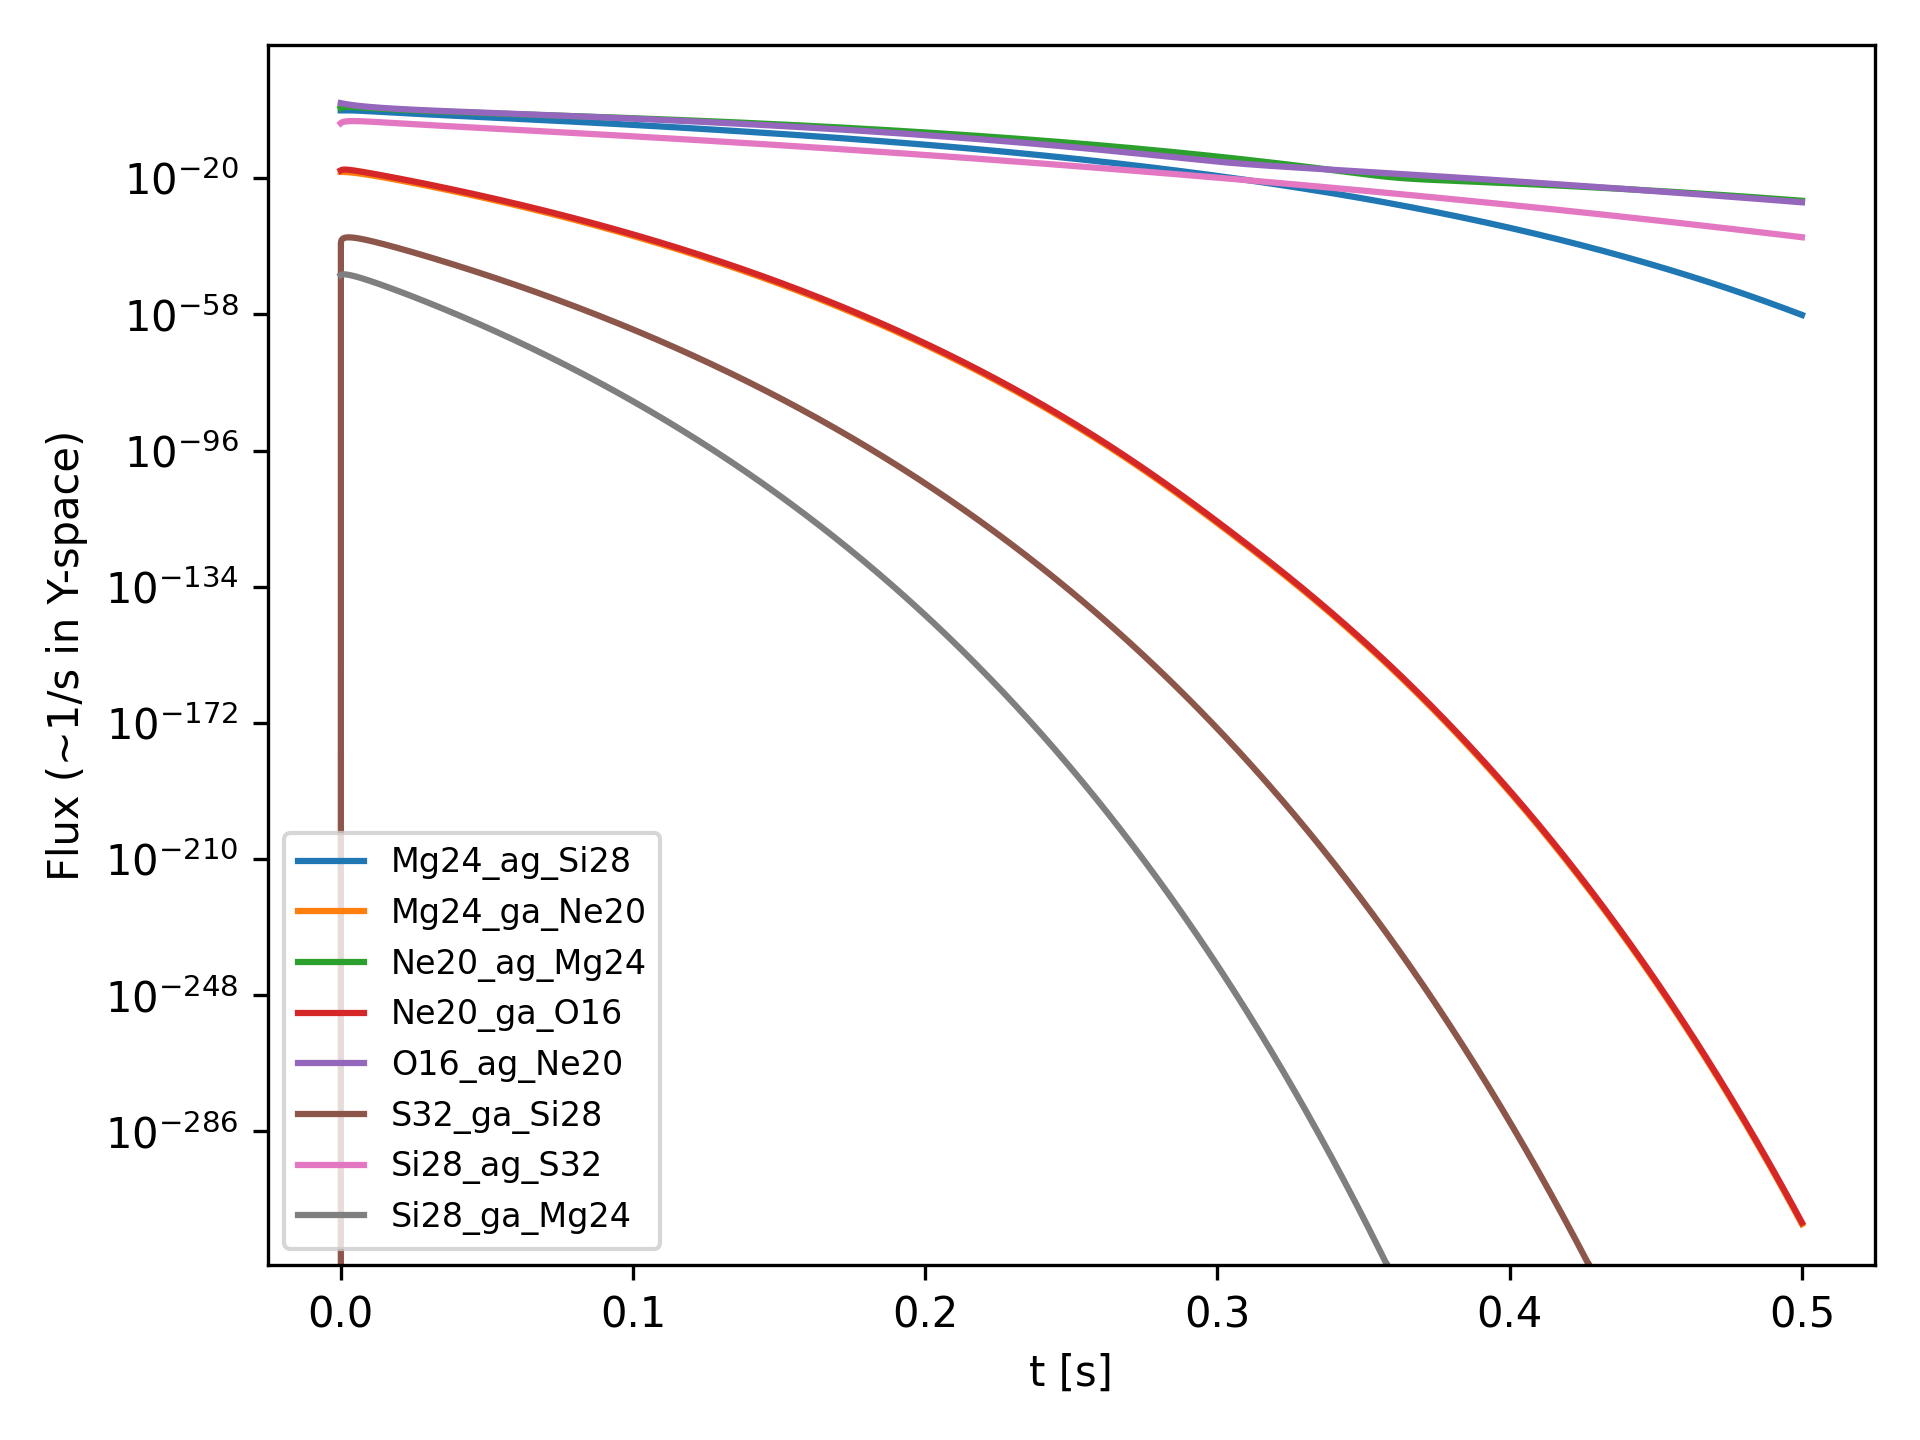
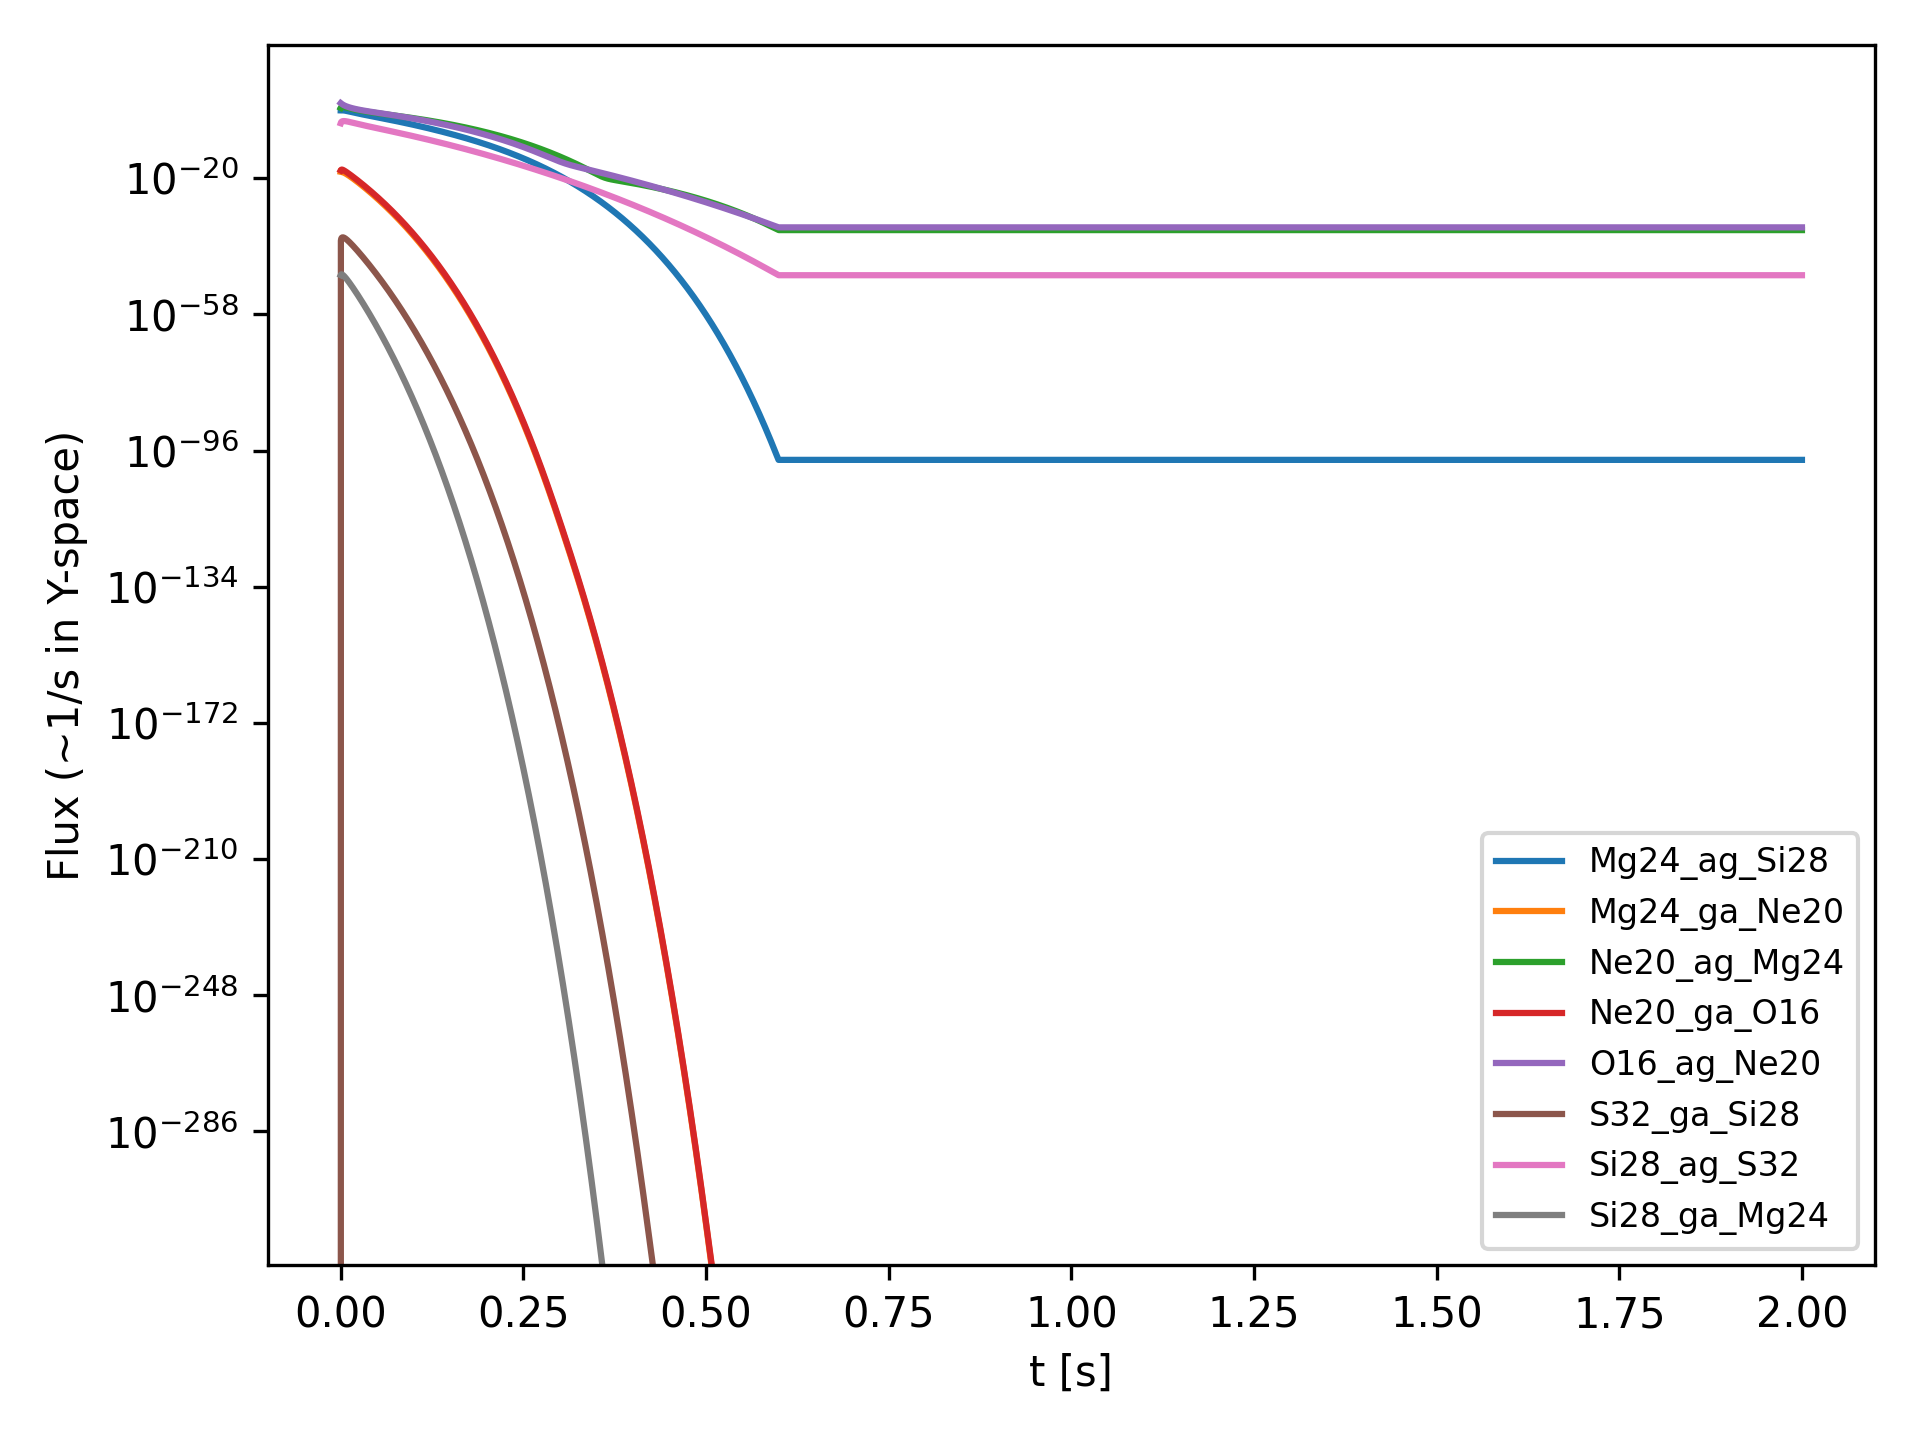
Increased time to 2s and added details in README

diff --git a/scripts/run_onezone.py b/scripts/run_onezone.py
@@ -55,7 +55,7 @@ def main():
     rho = 1e6           # g/cm^3 (toy value) (this can either fasten or slower the burning depending on the value)
     T9_peak = 1         # can change the threshold of the X value and need for cooling
     tau = 0.2          # s (fast cooling) time for the system to cool and reach a constant X
-    t_end = 0.5         # s if this number is way bigger then cooling time tau, you'll see a freeze out effect happen more constantly
+    t_end = 2         # s if this number is way bigger then cooling time tau, you'll see a freeze out effect happen more constantly
 
     traj = lambda t: shock_trajectory(t, T9_peak, tau) # check trajectory lib for default settings
 

diff --git a/README.md b/README.md
@@ -1,1 +1,204 @@
 # RateLab_Project
+
+
+This repo is a **learning-by-coding** implementation of a *small* thermonuclear reaction network (an **α-capture chain**) using **REAClib** rates and a simple **one‑zone** (parameterized) thermodynamic trajectory. The goal is to connect the *physics definitions and equations* (Iliadis) to the actual numbers your code evolves.
+
+> Primary reference: Christian Iliadis, *Nuclear Physics of Stars* (2nd ed., 2015).
+
+---
+
+## 1) Core physical quantities (what we evolve)
+
+### Number density, mass density
+- **Number density** of species *i*:  
+  \[
+  N_i \equiv \text{nuclei of species } i \text{ per unit volume}\quad [\mathrm{cm^{-3}}]
+  \]
+- **Mass density**:
+  \[
+  \rho = \frac{1}{N_A}\sum_i N_i M_i
+  \]
+  where \(M_i\) is the **relative atomic mass** (in u) and \(N_A\) is Avogadro’s constant. fileciteturn15file0L1-L5
+
+### Mass fraction \(X_i\) and mole fraction / molar abundance \(Y_i\)
+Iliadis defines:
+\[
+X_i \equiv \frac{N_i M_i}{\rho N_A}
+\qquad\text{and}\qquad
+Y_i \equiv \frac{X_i}{M_i} = \frac{N_i}{\rho N_A}
+\]
+- \(X_i\): fraction of *mass* in species \(i\) (dimensionless) fileciteturn15file0L23-L33  
+- \(Y_i\): **mole fraction / molar abundance** (often treated as “mol per gram” in practice); it stays constant under pure expansion/compression if no reactions occur (useful numerically). fileciteturn15file0L34-L38  
+
+**Useful identity** (from \(Y_i = N_i/(\rho N_A)\)):
+\[
+N_i = \rho N_A Y_i
+\]
+This is what turns *per‑volume* rates into *ODEs for \(Y\)*. fileciteturn15file0L29-L33
+
+---
+
+## 2) Thermonuclear reaction rates \(N_A\langle\sigma v\rangle\)
+
+### From “pairs collide” to \(\langle\sigma v\rangle\)
+For a two‑body reaction \(0+1 \to ...\), Iliadis starts with:
+\[
+r_{01} = N_0 N_1 \int_0^\infty v\,P(v)\,\sigma(v)\,dv \equiv N_0 N_1\langle\sigma v\rangle_{01}
+\]
+(where \(r_{01}\) is reactions per unit volume per unit time). fileciteturn14file1L18-L24
+
+For **identical reactants**, the number of distinct pairs is reduced by 1/2; Iliadis writes the general expression using a Kronecker‑delta factor. fileciteturn14file1L25-L35  
+(In our α‑captures, reactants are different, so this factor is 1.)
+
+### Maxwell–Boltzmann distribution \(P(v)\) and energy form
+At thermodynamic equilibrium (non‑degenerate, non‑relativistic), relative velocities are Maxwellian:
+\[
+P(v)\,dv = \left(\frac{m_{01}}{2\pi kT}\right)^{3/2} e^{-m_{01}v^2/(2kT)} 4\pi v^2\,dv
+\]
+and can be rewritten as an **energy distribution** \(P(E)\,dE\). fileciteturn14file0L1-L27
+
+With that, Iliadis obtains the standard Maxwellian average:
+\[
+\langle\sigma v\rangle_{01}
+= \left(\frac{8}{\pi m_{01}}\right)^{1/2}\frac{1}{(kT)^{3/2}}
+\int_0^\infty E\,\sigma(E)\,e^{-E/kT}\,dE
+\]
+fileciteturn14file0L29-L44
+
+### Why everyone tabulates \(N_A\langle\sigma v\rangle\) and what \(T_9\) is
+In practice, the literature typically tabulates:
+- \(N_A\langle\sigma v\rangle\) in \([\mathrm{cm^3\,mol^{-1}\,s^{-1}}]\) fileciteturn14file1L37-L39
+
+Iliadis also gives a convenient numerical form:
+\[
+N_A\langle\sigma v\rangle
+= 3.7318\times 10^{10}\,
+\frac{1}{T_9^{3/2}}
+\sqrt{\frac{M_0+M_1}{M_0 M_1}}
+\int_0^\infty E\sigma(E)\,e^{-11.605\,E/T_9}\,dE
+\]
+(with \(E\) in MeV, \(T_9 \equiv T/10^9\ \mathrm{K}\), \(\sigma\) in barns). fileciteturn14file0L45-L60
+
+And explicitly:
+\[
+T_9 \equiv \frac{T}{10^9\ \mathrm{K}}
+\]
+fileciteturn14file0L57-L59
+
+**Interpretation:** \(N_A\langle\sigma v\rangle(T_9)\) is the *thermally averaged microscopic probability* of reaction, folded with the Maxwellian velocities.
+
+---
+
+## 3) Turning rates into abundance ODEs
+
+Using \(N_i=\rho N_A Y_i\), a **two‑body capture** \(i+j\to k\) has (schematically):
+\[
+\frac{dY_i}{dt}\sim -\rho\,Y_iY_j\,N_A\langle\sigma v\rangle_{ij\to k},
+\qquad
+\frac{dY_k}{dt}\sim +\rho\,Y_iY_j\,N_A\langle\sigma v\rangle_{ij\to k}.
+\]
+This is exactly the structure implemented in `ratelab/network.py` for each α‑capture step. fileciteturn15file6L30-L45
+
+A **photodisintegration** (reverse) reaction acts like a **decay** with rate (decay constant) \(\lambda_\gamma\):
+\[
+\frac{dY_{\text{parent}}}{dt} = -\lambda_\gamma\,Y_{\text{parent}}
+\]
+(see Iliadis’ general decay‑constant definition). fileciteturn15file2L40-L45
+
+---
+
+## 4) Forward ↔ reverse (photodisintegration) and detailed balance
+
+For capture ↔ photodisintegration pairs, Iliadis shows that the **reverse photodisintegration decay constant** can be computed from the forward stellar rate using spin factors, partition functions, masses, and an exponential Boltzmann factor in \(Q/T_9\). Example 3.2 explicitly evaluates:
+\[
+\lambda_\gamma^\*(\text{reverse})
+\propto T_9^{3/2}\,e^{-11.605\,Q/T_9}\,N_A\langle\sigma v\rangle^\*_{\text{forward}}
+\]
+(with additional multiplicative factors from spins and partition functions). fileciteturn14file4L18-L47
+
+### How we do it in this repo (toy approach)
+For learning and rapid prototyping, we allow **two options**:
+
+1) **Use REAClib-provided reverse fits**: if the library already provides the reverse reaction as its own fit, we can evaluate \(\lambda_\gamma(T_9)\) directly with the same 7‑parameter form (this is what your current network code structure assumes).
+
+2) **Derive \(\lambda_\gamma\) from the forward rate** (more “physics transparent”): implement the detailed‑balance formula (as in Iliadis Example 3.2) using \(Q\)-values, spins, and partition functions.
+
+Option (1) is fast and consistent with how large networks are often wired; option (2) is excellent for *mastery* because you see every physical factor.
+
+---
+
+## 5) REAClib 7‑parameter fit (what our code evaluates)
+
+REAClib rates are provided as **fits** to tabulated \(N_A\langle\sigma v\rangle(T_9)\), designed for very fast evaluation. For one coefficient set \(a_1,\dots,a_7\),
+\[
+N_A\langle\sigma v\rangle(T_9)
+= \exp\!\Big(
+a_1 + a_2T_9^{-1} + a_3T_9^{-1/3}
++ a_4T_9^{1/3} + a_5T_9 + a_6T_9^{5/3} + a_7\ln T_9
+\Big)
+\]
+(as implemented in `ratelab/reaclib.py`). fileciteturn14file8L3-L26
+
+Many reactions have **multiple sets** (different temperature regions / components). We sum them:
+\[
+\text{rate}(T_9) = \sum_k \exp(E_k(T_9))
+\]
+(as implemented in `ratelab/rates.py`). fileciteturn14file5L48-L68
+
+### Temperature sensitivity
+We also compute:
+\[
+\frac{d\ln(\text{rate})}{d\ln T_9}
+\]
+both analytically (chain rule) and by finite‑difference for sanity checks. fileciteturn14file10L22-L51
+
+---
+
+## 6) The toy network we evolve
+
+We start with a minimal α‑chain relevant to O/Si‑region processing:
+
+- \(^{16}\mathrm{O}(\alpha,\gamma)^{20}\mathrm{Ne}\)
+- \(^{20}\mathrm{Ne}(\alpha,\gamma)^{24}\mathrm{Mg}\)
+- \(^{24}\mathrm{Mg}(\alpha,\gamma)^{28}\mathrm{Si}\)
+- \(^{28}\mathrm{Si}(\alpha,\gamma)^{32}\mathrm{S}\)
+
+Forward ODE structure is in `ratelab/network.py`. fileciteturn15file6L22-L45
+
+---
+
+## 7) One‑zone “shock / explosive burning” trajectory
+
+A common approach in explosive nucleosynthesis is to prescribe \(T(t)\) and \(\rho(t)\) with a simple parameterization once \(T_{\text{peak}}\) and \(\rho_{\text{peak}}\) are chosen. Iliadis discusses this idea and gives an exponential density falloff with an expansion timescale \(\tau_{\mathrm{exp}}\), e.g.:
+\[
+\rho(t) = \rho_{\mathrm{peak}}\,e^{-t/\tau_{\mathrm{exp}}}
+\]
+fileciteturn19file2L1-L7
+
+In this repo we use a simplified “shock_trajectory” parameterization in code (see `ratelab/trajectory.py`), and wire it into the integrator in `scripts/run_onezone.py`. fileciteturn15file5L13-L28
+
+---
+
+## 8) Fluxes (what is “driving” the network?)
+
+A helpful diagnostic is the **abundance flux** for each reaction, i.e. the instantaneous flow of material through a link.
+
+For an α‑capture \( \alpha + i \to k\):
+\[
+F_{\alpha i\to k}(t) = \rho(t)\,Y_\alpha(t)\,Y_i(t)\,N_A\langle\sigma v\rangle_{\alpha i\to k}(T_9(t))
+\]
+
+For a photodisintegration \(k\to \alpha + i\):
+\[
+F_{k\to \alpha i}(t) = \lambda_\gamma(T_9(t))\,Y_k(t)
+\]
+
+(Your `fluxes()` helper in `network.py` should return these as a dictionary so `run_onezone.py` can plot them.)
+
+---
+
+## 9) Running the demo
+
+### Plot rate curves + sensitivities
+```bash
+python scripts/plot_rates.py
